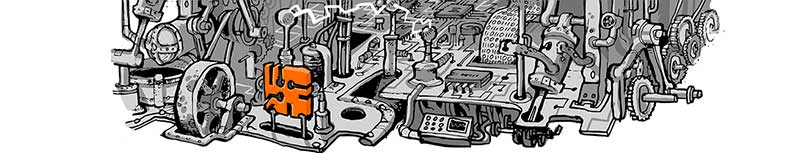
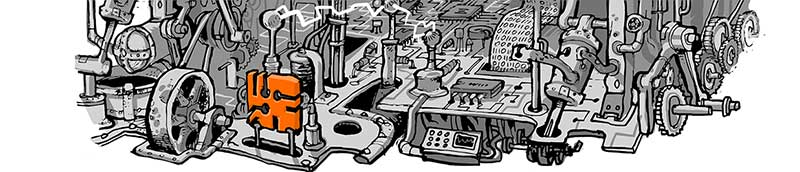
add favi and do some stuff on header

diff --git a/themes/techblog/assets/css/less/elements/header.less b/themes/techblog/assets/css/less/elements/header.less
@@ -75,7 +75,8 @@
                           and (orientation: landscape) {
 
                 &.welcome {
-                    .dimension(@distanceDefault * 6, 100%);
+                    .dimension(@distanceDefault * 10, 100%);
+                    background-size: cover;
                 }
 
             }
@@ -84,7 +85,8 @@
                           and (orientation: portrait) {
 
                 &.welcome {
-                    .dimension(@distanceDefault * 7, 100%);
+                    .dimension(@distanceDefault * 10, 100%);
+                    //background-size: contain;
                 }
 
             }
@@ -99,7 +101,7 @@
                 }
 
                 &.welcome {
-                    .dimension(@distanceDefault * 10, 100%);
+                    .dimension(@distanceDefault * 13, 100%);
                 }
 
             }
@@ -114,7 +116,7 @@
                 }
 
                 &.welcome {
-                    .dimension(@distanceDefault * 25, 100%);
+                    .dimension(@distanceDefault * 20, 100%);
                 }
             }
 

diff --git a/themes/techblog/assets/css/theme.css b/themes/techblog/assets/css/theme.css
@@ -741,13 +741,14 @@ header .banner {
 }
 @media screen and (max-width: 599px) and (orientation: landscape) {
   header .banner.welcome {
-    height: 60px;
+    height: 100px;
     width: 100%;
+    background-size: cover;
   }
 }
 @media screen and (max-width: 599px) and (orientation: portrait) {
   header .banner.welcome {
-    height: 70px;
+    height: 100px;
     width: 100%;
   }
 }
@@ -759,7 +760,7 @@ header .banner {
     height: 50px;
   }
   header .banner.welcome {
-    height: 100px;
+    height: 130px;
     width: 100%;
   }
 }
@@ -771,7 +772,7 @@ header .banner {
     height: 75px;
   }
   header .banner.welcome {
-    height: 250px;
+    height: 200px;
     width: 100%;
   }
 }
